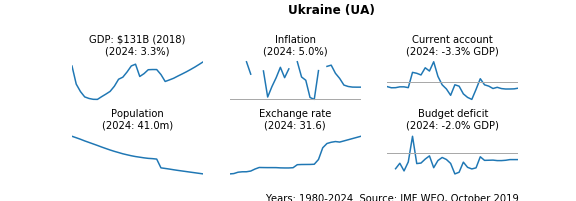
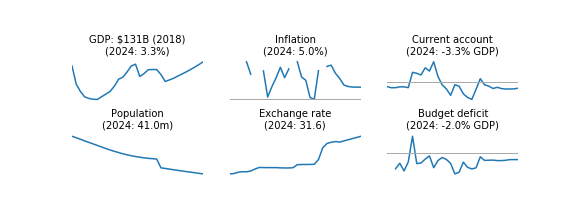
CIS added

Changed region(s): [[0.4375, 0.9552, 0.9062, 1.0], [0.5, 0.0, 0.6562, 0.0896]]

diff --git a/docs/index.html b/docs/index.html
@@ -20,6 +20,16 @@ October 2019
 <BR>
 <H3>Spain</H3><img src="esp.png">
 <BR>
+<H3>Switzerland</H3><img src="che.png">
+<BR>
+<H2>CIS</H2><H3>Russia</H3><img src="rus.png">
+<BR>
+<H3>Ukraine</H3><img src="ua.png">
+<BR>
+<H3>Kazakhstan</H3><img src="kz.png">
+<BR>
+<H3>Belarus</H3><img src="blr.png">
+<BR>
 <H2>DM Asia</H2><H3>Japan</H3><img src="jpn.png">
 <BR>
 <H3>Korea</H3><img src="kor.png">

diff --git a/example/sparklines.py b/example/sparklines.py
@@ -125,7 +125,8 @@ bottom = """
 """
 
 countries = {'North America' : ['USA', 'CAN', 'MEX']
-    , 'Europe' : ['DEU', 'GBR', 'FRA', 'ITA', 'ESP']
+    , 'Europe' : ['DEU', 'GBR', 'FRA', 'ITA', 'ESP', 'CHE']    
+    , 'CIS' : ['RUS', 'UA', 'KZ', 'BLR']
     , 'DM Asia' : ['JPN', 'KOR', 'AUS']
     , 'EM Asia' : ['CHN', 'IND', 'IDN']
     , 'Latin America' : ['BRA', 'ARG']
